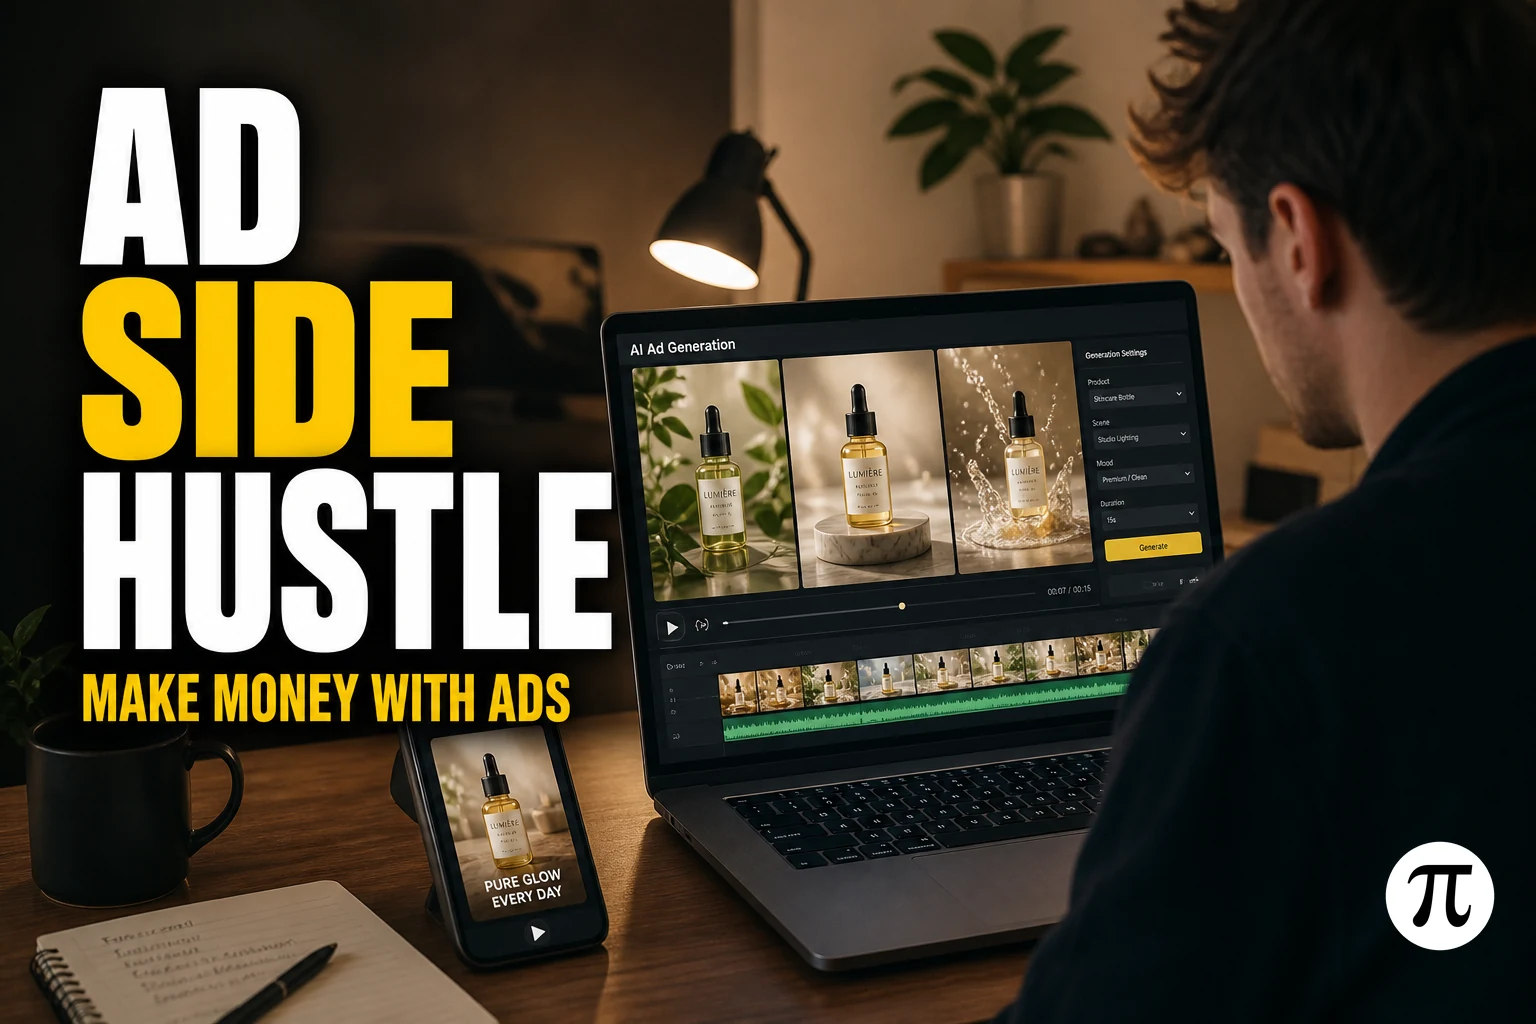
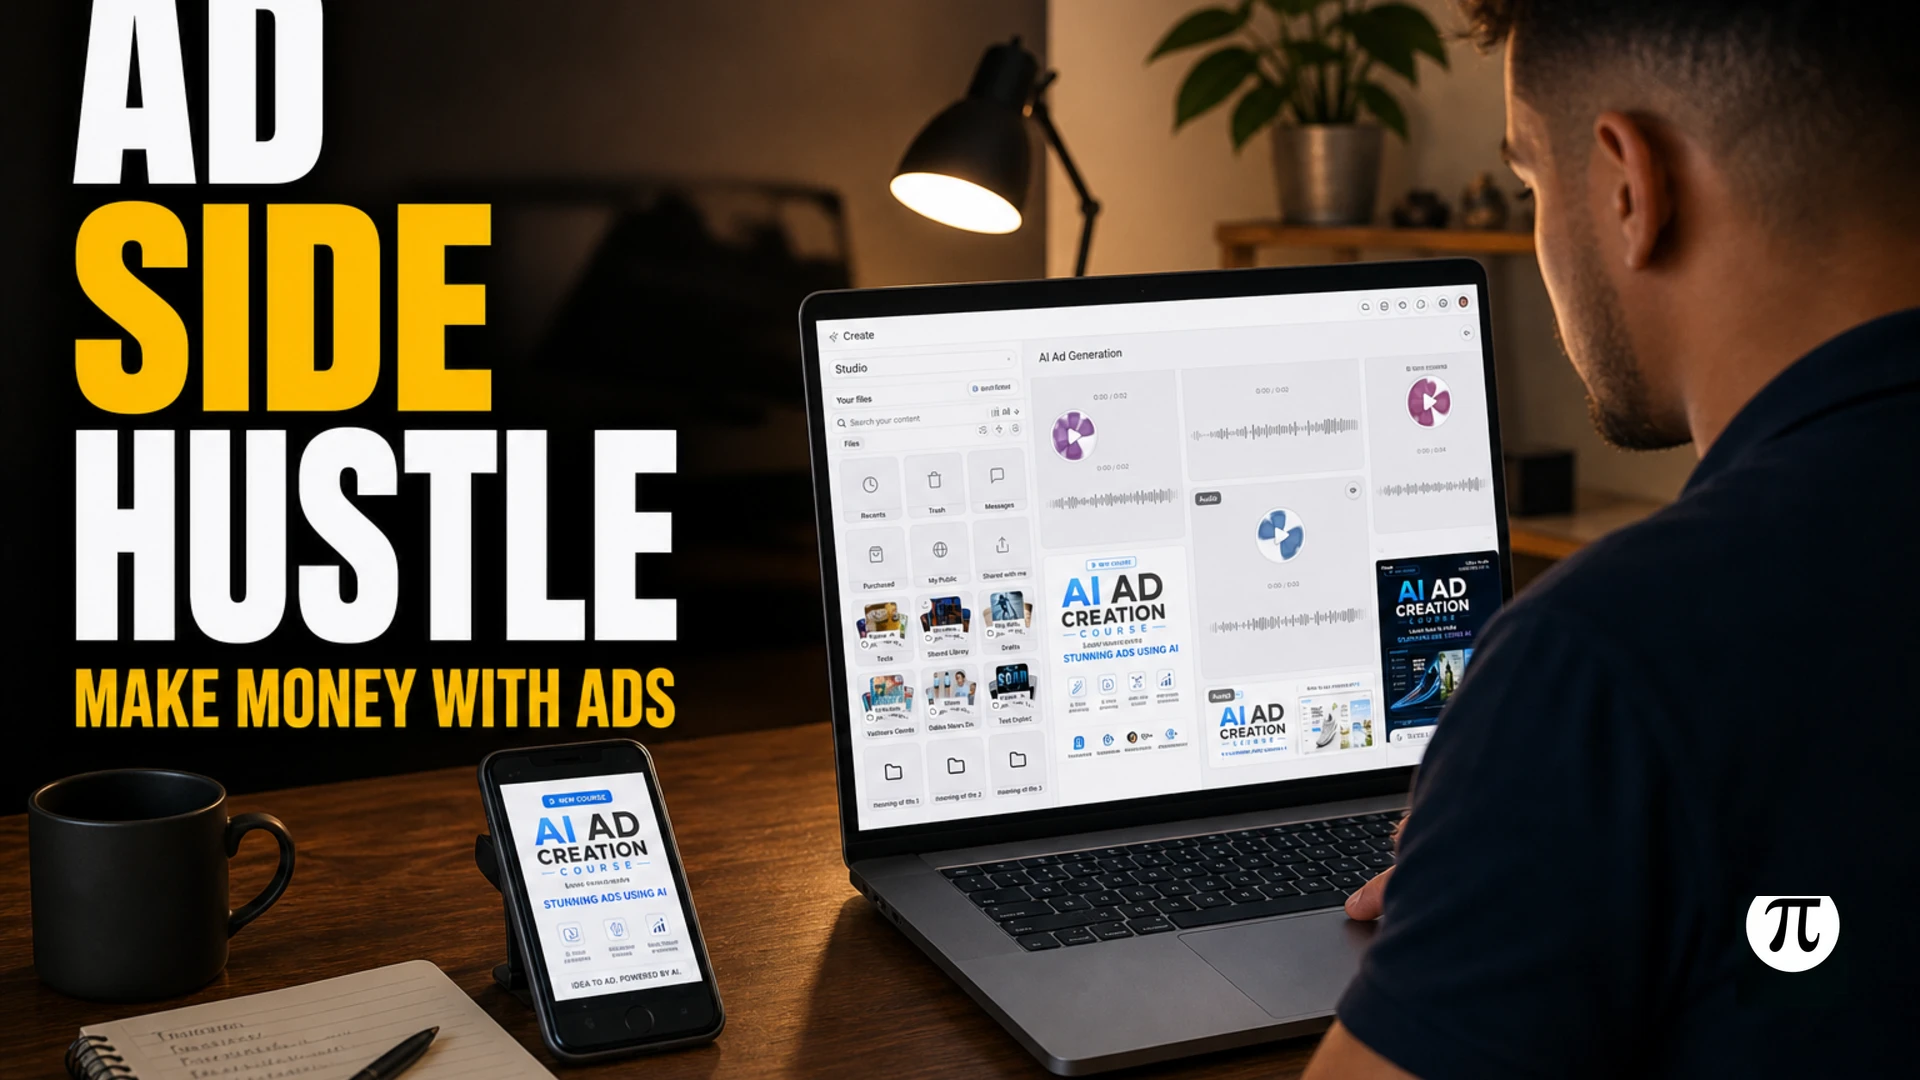
Fix Academy lesson rail numbers and sharpen Ad Side Hustle covers.
Numbers-only rail chips, 16:9 player, HD cover URLs, and v3 Caribbean course banner.

diff --git a/src/studio/components/StudioAcademySidebar.tsx b/src/studio/components/StudioAcademySidebar.tsx
@@ -11,10 +11,8 @@ import {
   type AcademyOwnershipFilter,
   type AcademySortKey,
 } from "./StudioAcademyContext";
-import { MediaLoadFrame } from "./media-load-frame";
 import "./public-offers.css";
 import "./studio-creative-network.css";
-import "./media-load-frame.css";
 
 const SORT_OPTIONS: Array<{ value: AcademySortKey; label: string }> = [
   { value: "newest", label: "Newest" },
@@ -211,7 +209,6 @@ function LessonRail({
   if (!academy) return null;
 
   const lessons = academy.filterLessons(detail?.lessons ?? []);
-  const courseBanner = detail?.coverUrl;
   const introActive = academy.lessonId === null;
   const q = academy.lessonSearch.trim().toLowerCase();
   const showIntro =
@@ -243,33 +240,10 @@ function LessonRail({
                   onClick={() => academy.setLessonId(null)}
                 >
                   <span
-                    className="studio-academy-lesson-thumb"
+                    className="studio-academy-lesson-num"
                     aria-hidden="true"
                   >
-                    {courseBanner ? (
-                      <MediaLoadFrame
-                        kind="image"
-                        src={courseBanner}
-                        cacheKey={`academy-lesson-intro:${courseId}`}
-                        ratio="fill"
-                        className="studio-academy-lesson-thumb-frame"
-                        loaderSize="sm"
-                        loaderRing
-                      >
-                        {({ onLoad, onError }) => (
-                          // eslint-disable-next-line @next/next/no-img-element
-                          <img
-                            src={courseBanner}
-                            alt=""
-                            decoding="async"
-                            onLoad={onLoad}
-                            onError={onError}
-                          />
-                        )}
-                      </MediaLoadFrame>
-                    ) : (
-                      <span className="studio-academy-lesson-num">0</span>
-                    )}
+                    0
                   </span>
                   <span className="studio-academy-lesson-meta">
                     <strong>{detail.title}</strong>
@@ -288,35 +262,10 @@ function LessonRail({
                     onClick={() => academy.setLessonId(lesson._id)}
                   >
                     <span
-                      className="studio-academy-lesson-thumb"
+                      className="studio-academy-lesson-num"
                       aria-hidden="true"
                     >
-                      {lesson.coverUrl ? (
-                        <MediaLoadFrame
-                          kind="image"
-                          src={lesson.coverUrl}
-                          cacheKey={`academy-lesson:${lesson._id}`}
-                          ratio="fill"
-                          className="studio-academy-lesson-thumb-frame"
-                          loaderSize="sm"
-                          loaderRing
-                        >
-                          {({ onLoad, onError }) => (
-                            // eslint-disable-next-line @next/next/no-img-element
-                            <img
-                              src={lesson.coverUrl}
-                              alt=""
-                              decoding="async"
-                              onLoad={onLoad}
-                              onError={onError}
-                            />
-                          )}
-                        </MediaLoadFrame>
-                      ) : (
-                        <span className="studio-academy-lesson-num">
-                          {index + 1}
-                        </span>
-                      )}
+                      {index + 1}
                     </span>
                     <span className="studio-academy-lesson-meta">
                       <strong>{lesson.title}</strong>

diff --git a/convex/academy.ts b/convex/academy.ts
@@ -14,6 +14,7 @@ import {
   CN_CARD_TRANSFORM,
   PEEK_TRANSFORM,
   PREVIEW_TRANSFORM,
+  ACADEMY_COVER_TRANSFORM,
   signBunnyCdnUrls,
   signBunnyFullUrl,
   signBunnyThumbUrl,
@@ -175,6 +176,7 @@ const lessonSummaryReturn = v.object({
   blurb: v.string(),
   descriptionMarkdown: v.string(),
   coverUrl: v.optional(v.string()),
+  coverThumbUrl: v.optional(v.string()),
   hasVideo: v.boolean(),
   sortOrder: v.number(),
   status: v.union(v.literal("draft"), v.literal("published")),
@@ -301,7 +303,13 @@ export const getCourse = authedQuery({
         slug: lesson.slug,
         blurb: blurbFromMarkdown(lesson.descriptionMarkdown),
         descriptionMarkdown: lesson.descriptionMarkdown,
-        coverUrl: await coverUrlFor(lesson.coverBunnyPath, THUMB_TRANSFORM),
+        /** Player / hero — sharp Academy cover, not list thumb. */
+        coverUrl: await coverUrlFor(
+          lesson.coverBunnyPath,
+          ACADEMY_COVER_TRANSFORM,
+        ),
+        /** Lesson rail circle — small Optimizer thumb. */
+        coverThumbUrl: await coverUrlFor(lesson.coverBunnyPath, THUMB_TRANSFORM),
         hasVideo: Boolean(lesson.bunnyStreamVideoId) && owned,
         sortOrder: lesson.sortOrder,
         status: lesson.status,
@@ -315,7 +323,7 @@ export const getCourse = authedQuery({
       slug: course.slug,
       descriptionMarkdown: course.descriptionMarkdown,
       ...pricingFieldsForCourse(course),
-      coverUrl: await coverUrlFor(course.coverBunnyPath, PREVIEW_TRANSFORM),
+      coverUrl: await coverUrlFor(course.coverBunnyPath, ACADEMY_COVER_TRANSFORM),
       owned,
       hasIntroVideo: Boolean(courseIntroVideoId(course)),
       lessonCount: lessonDocs.filter((l) => l.status === "published").length,
@@ -1113,6 +1121,7 @@ export {
 export {
   internalSeedAdSideHustleLessons,
   internalSetLessonCover,
+  internalSetCourseCover,
 } from "./academyAdSideHustleLessons";
 
 const COMMENT_URL_TTL_SEC = 60 * 60;

diff --git a/convex/academyAdSideHustleLessons.ts b/convex/academyAdSideHustleLessons.ts
@@ -312,3 +312,23 @@ export const internalSetLessonCover = internalMutation({
     return null;
   },
 });
+
+/** Deploy-key / ops path to attach a course cover after upload. */
+export const internalSetCourseCover = internalMutation({
+  args: {
+    courseId: v.id("academyCourses"),
+    coverBunnyPath: v.string(),
+  },
+  returns: v.null(),
+  handler: async (ctx, args) => {
+    const course = await ctx.db.get("academyCourses", args.courseId);
+    if (!course) throw new Error("Course not found");
+    const path = args.coverBunnyPath.trim();
+    if (!path) throw new Error("coverBunnyPath required");
+    await ctx.db.patch(args.courseId, {
+      coverBunnyPath: path,
+      updatedAt: Date.now(),
+    });
+    return null;
+  },
+});

diff --git a/convex/lib/bunny.ts b/convex/lib/bunny.ts
@@ -255,13 +255,6 @@ export const PREVIEW_TRANSFORM: BunnyImageTransform = {
   format: "webp",
 };
 
-/** Style-sheet / large preview cards — sharp enough for look selection. */
-export const PREVIEW_TRANSFORM: BunnyImageTransform = {
-  width: 1280,
-  quality: 88,
-  format: "webp",
-};
-
 /** Academy lesson / course hero covers in the player — sharp, near-full HD. */
 export const ACADEMY_COVER_TRANSFORM: BunnyImageTransform = {
   width: 1920,
